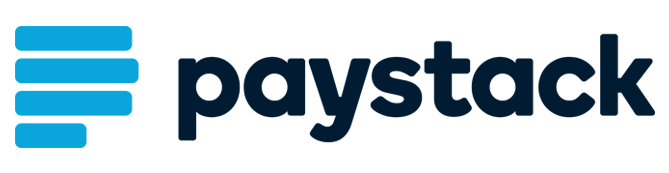
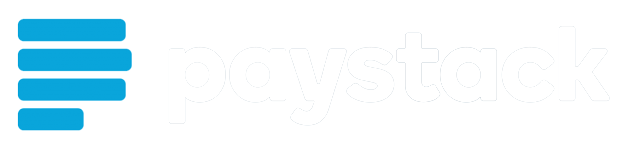
chore(payment-btns): show payment options as buttons
- show formless payment options as buttons

[Finishes #160071342]

diff --git a/imports/plugins/custom/payments-paystack/client/checkout/button.html b/imports/plugins/custom/payments-paystack/client/checkout/button.html
@@ -6,7 +6,7 @@
   {{else}}
     <div class="alert alert-danger hidden">Oh! Snap!</div>
     <button type="submit" class="rui btn btn-lg btn-cta btn-block btn-complete-order js-paystack-checkout">
-      <span id="btn-complete-order" data-i18n="checkoutPayment.completeYourOrder">Complete your order</span>
+      <span id="btn-complete-order">Pay with <img class="paystack-logo-white" src="/images/paystack.png" alt=""></span>
     </button>
   {{/if}}
 </template>

diff --git a/imports/plugins/included/payments-example/client/checkout/example.html b/imports/plugins/included/payments-example/client/checkout/example.html
@@ -47,7 +47,7 @@
 
   <div class="alert alert-danger hidden">Oh! Snap!</div>
   <button type="submit" class="rui btn btn-lg btn-cta btn-block btn-complete-order">
-    <span id="btn-complete-order">Complete your order</span>
+    <span id="btn-complete-order">Pay Now</span>
     <i class="fa fa-spinner fa-spin hidden" id="btn-processing"></i>
   </button>
 

diff --git a/imports/plugins/included/payments-example/client/checkout/example.js b/imports/plugins/included/payments-example/client/checkout/example.js
@@ -105,7 +105,7 @@ AutoForm.addHooks("example-payment-form", {
   },
   endSubmit: function () {
     if (!submitting) {
-      return uiEnd(this.template, "Complete your order");
+      return uiEnd(this.template, "Pay Now");
     }
   }
 });

diff --git a/imports/plugins/custom/gondor-theme/client/styles/main.less b/imports/plugins/custom/gondor-theme/client/styles/main.less
@@ -49,3 +49,7 @@ h2.text-center.wish-list-header {
   padding: 50px;
   margin-top: 0;
 }
+
+.paystack-logo-white {
+  height: 25px;
+}
